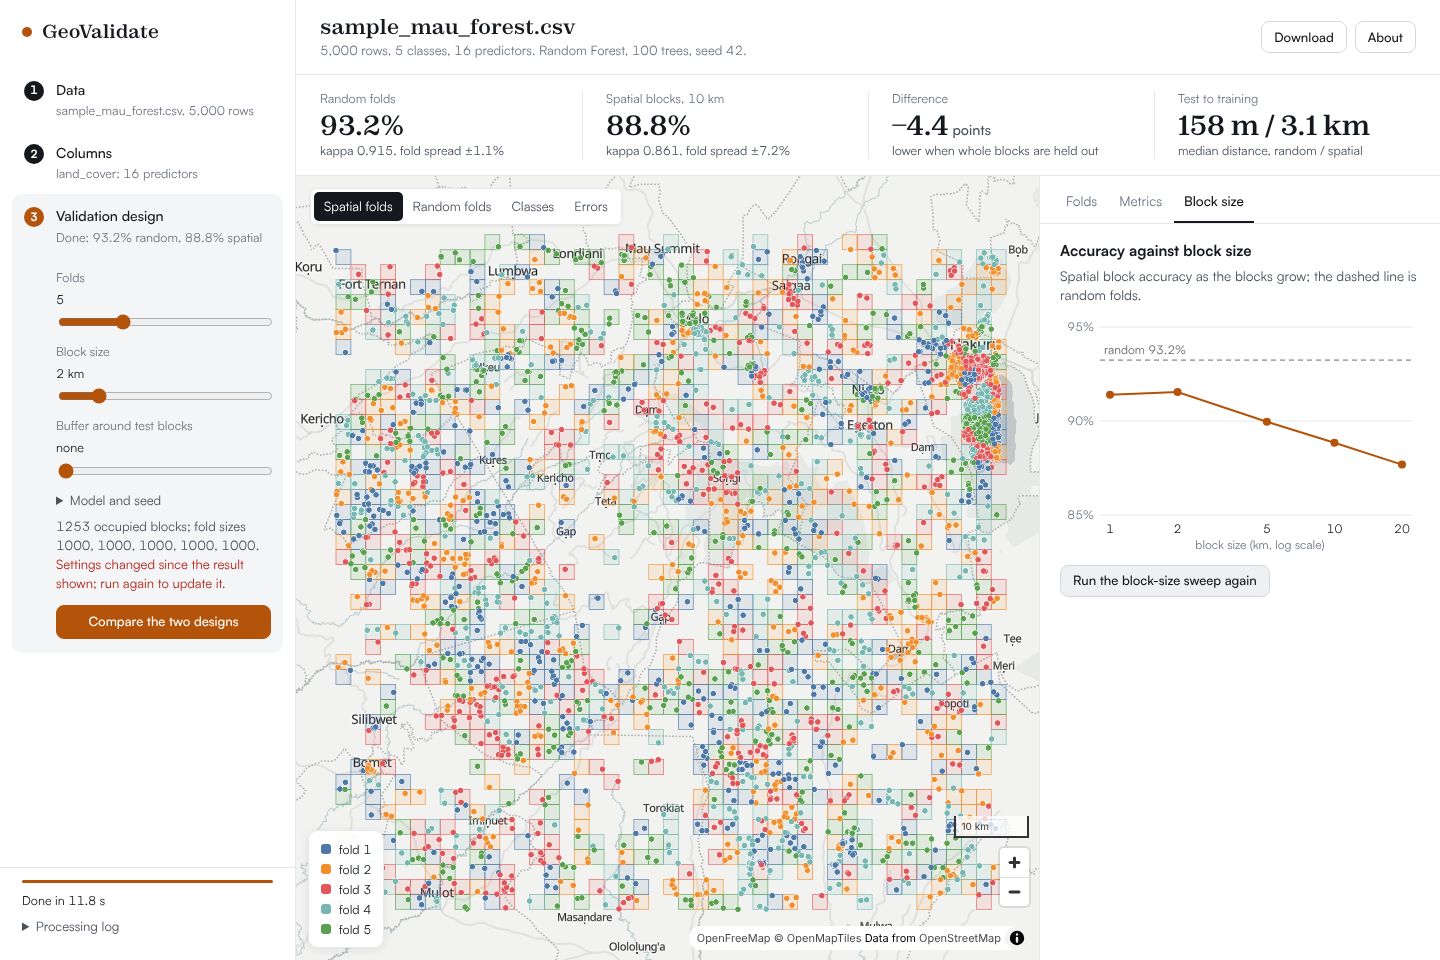
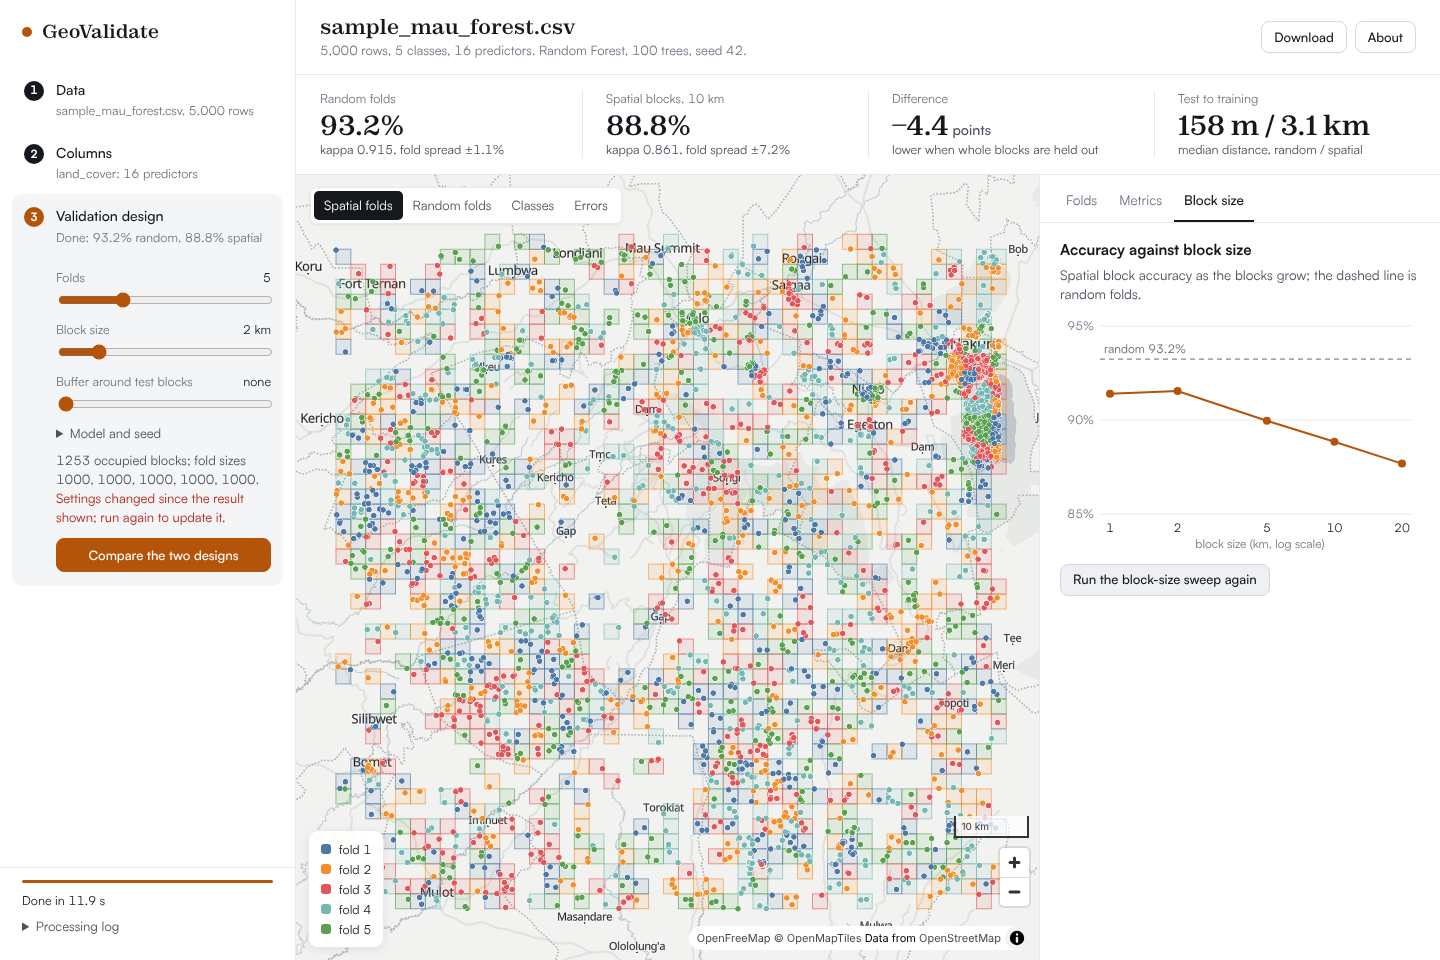
Fix review findings: block outlines across the 180 degree meridian, staleness on every setting, sweep and load state, report image wait

diff --git a/js/app.js b/js/app.js
@@ -77,7 +77,7 @@ async function load(text, name, kind) {
   try {
     const meta = await ask('load', { text, kind }, m => { info(esc(m)); line(m, 'now'); });
     log.querySelectorAll('li.now').forEach(l => l.classList.remove('now'));
-    Object.assign(S, { text, name, kind, meta, result: null, preview: null, view: 'folds' }); resetResult();
+    Object.assign(S, { text, name, kind, meta, result: null, preview: null, previewOk: false, sweep: null, stale: false, view: 'folds' }); resetResult();
     document.querySelector('[data-view="errors"]').disabled = true;
     document.querySelectorAll('[data-view]').forEach(x => { x.checked = x.dataset.view === 'folds'; });
     $('views').hidden = false; summary(0, `${name}, ${meta.rows.toLocaleString('en-GB')} rows`);
@@ -121,7 +121,7 @@ async function checkData() {
     $('quality').innerHTML = `<li>${q.rows.toLocaleString('en-GB')} rows; classes: ${cls}</li>` +
       (q.problems.length ? q.problems.map(p => `<li class="warn">${esc(p)}</li>`).join('') : '<li class="ok">No problems found in rows, coordinates or target.</li>');
     await preview();
-  } catch (e) { $('quality').innerHTML = `<li class="warn">${esc(e.message)}</li>`; $('run').disabled = true; }
+  } catch (e) { $('quality').innerHTML = `<li class="warn">${esc(e.message)}</li>`; S.previewOk = false; $('run').disabled = true; updateNext(); }
 }
 
 // ---------------------------------------------------------------- design controls and live fold preview
@@ -131,6 +131,7 @@ const outs = () => {
 };
 $('block').max = BLOCKS.length - 1; $('block').value = BLOCKS.indexOf(10); outs();
 let pvTimer = null;
+['trees', 'leaf', 'cw', 'holdout'].forEach(id => $(id).addEventListener('change', () => { clearTimeout(pvTimer); pvTimer = setTimeout(preview, 150); }));
 ['k', 'block', 'buffer', 'seed'].forEach(id => $(id).addEventListener('input', () => { outs(); clearTimeout(pvTimer); pvTimer = setTimeout(preview, 150); }));
 async function preview() {
   if (!S.meta) return;
@@ -141,7 +142,8 @@ async function preview() {
     S.preview = p; S.previewOk = true; $('run').disabled = false; updateNext();
     summary(1, `${cfg().target}; ${cfg().features.length} predictors`);
     // a result computed with other settings is kept, but marked as out of date, and the map shows the new folds
-    S.stale = !!S.result && JSON.stringify(['k', 'seed', 'block_km', 'buffer_km'].map(k => S.result.config[k])) !== JSON.stringify(['k', 'seed', 'block_km', 'buffer_km'].map(k => cfg()[k]));
+    const keyOf = c => JSON.stringify([c.target, c.x, c.y, c.crs, c.features, c.k, c.seed, c.block_km, c.buffer_km, c.method, c.model]);
+    S.stale = !!S.result && keyOf(S.result.config) !== keyOf(cfg());
     const empty = p.fold_class_counts.map((c, f) => Object.entries(c).filter(([, n]) => n === 0).map(([k]) => k)).map((e, f) => e.length ? `fold ${f + 1} lacks ${e.join(', ')}` : '').filter(Boolean);
     $('fold-info').innerHTML = `${p.n_blocks} occupied blocks; fold sizes ${p.fold_sizes.join(', ')}.` + (empty.length ? ` <span class="warn">${esc(empty.join('; '))}.</span>` : '')
       + (S.stale ? ' <span class="warn">Settings changed since the result shown; run again to update it.</span>' : '');
@@ -170,7 +172,9 @@ async function drawMap(fit) {
   map.getSource('blocks').setData(showBlocks ? { ...blocksFC, features: blocksFC.features.map(f => ({ ...f, properties: { ...f.properties, color: S.view === 'folds' ? FOLD_COLORS[f.properties.fold % 10] : '#6a6963' } })) } : { type: 'FeatureCollection', features: [] });
   const key = S.name + lonlat.length;
   if (fit && fitted !== key) {
-    const xs = lonlat.map(c => c[0]), ys = lonlat.map(c => c[1]);
+    const sn = lonlat.reduce((q, c) => q + Math.sin(c[0] * Math.PI / 180), 0), cs = lonlat.reduce((q, c) => q + Math.cos(c[0] * Math.PI / 180), 0);
+    const lon0 = Math.atan2(sn, cs) * 180 / Math.PI;   // circular mean, as the projection uses
+    const xs = lonlat.map(c => lon0 + ((c[0] - lon0 + 540) % 360) - 180), ys = lonlat.map(c => c[1]);
     map.fitBounds([[Math.min(...xs), Math.min(...ys)], [Math.max(...xs), Math.max(...ys)]], { padding: { top: 60, bottom: 40, left: 40, right: 40 }, duration: 700 }); fitted = key;
   }
   const L = $('legend'); L.hidden = false;
@@ -185,7 +189,7 @@ async function drawMap(fit) {
 // ---------------------------------------------------------------- run
 $('run').addEventListener('click', runNow);
 async function runNow() {
-  $('run').disabled = true; log.innerHTML = ''; line('Starting', 'now'); resetResult(); summary(2, 'Running');
+  $('run').disabled = true; log.innerHTML = ''; line('Starting', 'now'); S.result = null; S.sweep = null; resetResult(); summary(2, 'Running'); document.querySelector('[data-view="errors"]').disabled = true; drawMap(false);
   const t0 = performance.now();
   try {
     const r = await ask('run', { cfg: cfg() }, m => line(m, 'now'));
@@ -194,9 +198,9 @@ async function runNow() {
     S.result = r; S.stale = false; S.sweep = null; S.runAt = new Date().toISOString();
     document.querySelector('[data-view="errors"]').disabled = false;
     render(r); drawMap(true);
-    setLocks();
+    setLocks(); if (window.innerWidth <= 860) document.querySelector('.main').scrollIntoView({ behavior: 'smooth' });
   } catch (e) { line(e.message, 'err'); summary(2, 'Failed; see the message below'); }
-  finally { $('run').disabled = !S.previewOk; }
+  finally { $('run').disabled = !S.previewOk || cfg().crs === 'EPSG:'; }
 }
 
 function render(r) {
@@ -206,7 +210,7 @@ function render(r) {
   $('r-title').textContent = S.name || 'Result';
   summary(2, `Done: ${pct(a.pooled.accuracy)} random, ${pct(b.pooled.accuracy)} spatial`);
   const k = [
-    [a.design.includes('hold-out') ? 'Random hold-out' : 'Random folds', pct(a.pooled.accuracy), `kappa ${num(a.pooled.kappa, 3)}, fold spread ±${pct(a.fold_accuracy_sd)}`],
+    [a.design.includes('hold-out') ? 'Random hold-out' : 'Random folds', pct(a.pooled.accuracy), `kappa ${num(a.pooled.kappa, 3)}${a.per_fold.length > 1 ? `, fold spread ±${pct(a.fold_accuracy_sd)}` : ', single hold-out'}`],
     [`Spatial blocks, ${r.config.block_km} km`, pct(b.pooled.accuracy), `kappa ${num(b.pooled.kappa, 3)}, fold spread ±${pct(b.fold_accuracy_sd)}`],
     ['Difference', `${drop >= 0 ? '−' : '+'}${Math.abs(drop * 100).toFixed(1)}<small>points</small>`, drop >= 0 ? 'lower when whole blocks are held out' : 'higher when whole blocks are held out'],
     ['Test to training', `${km(a.median_test_to_train_m)} / ${km(b.median_test_to_train_m)}`, 'median distance, random / spatial'],
@@ -269,7 +273,7 @@ function drawFolds(r) {
 }
 function drawSweep() {
   const c = $('c-sweep'), { ctx, W, H } = fitCanvas(c, 240), pad = { l: 40, r: 8, t: 12, b: 40 };
-  if (!S.sweep) { ctx.clearRect(0, 0, W, H); ctx.fillStyle = '#6e7681'; ctx.font = '13px Satoshi, system-ui, sans-serif'; ctx.textAlign = 'center'; ctx.fillText(S.result ? 'Run the sweep to see how accuracy changes' : 'Compare the two designs first', W / 2, H / 2); return; }
+  if (!S.sweep || !S.result) { ctx.clearRect(0, 0, W, H); ctx.fillStyle = '#6e7681'; ctx.font = '13px Satoshi, system-ui, sans-serif'; ctx.textAlign = 'center'; ctx.fillText(S.result ? 'Run the sweep to see how accuracy changes' : 'Compare the two designs first', W / 2, H / 2); return; }
   const rows = S.sweep.rows.filter(r => r.accuracy != null), base = S.result.random.pooled.accuracy;
   const all = rows.map(r => r.accuracy).concat([base]);
   const lo = Math.max(0, Math.floor((Math.min(...all) - 0.02) * 20) / 20), hi = Math.min(1, Math.ceil((Math.max(...all) + 0.01) * 20) / 20);
@@ -285,11 +289,12 @@ function drawSweep() {
 $('sweep').addEventListener('click', async () => {
   if (!S.result) return;
   const sizes = [1, 2, 5, 10, 20].filter(b => b !== S.result.config.block_km).concat([S.result.config.block_km]).sort((a, b) => a - b);
+  document.querySelectorAll('.sweep-note').forEach(n => n.remove());
   $('sweep').disabled = true; $('sweep').textContent = 'Running…';
   try { S.sweep = await ask('sweep', { cfg: S.result.config, blocks: sizes }, m => { $('sweep').textContent = m; }); drawSweep();
-    const bad = S.sweep.rows.filter(r => r.error); if (bad.length) $('sweep').insertAdjacentHTML('afterend', `<p class="warn">* ${bad.map(r => esc(r.error)).join('; ')}</p>`); }
+    const bad = S.sweep.rows.filter(r => r.error); if (bad.length) $('sweep').insertAdjacentHTML('afterend', `<p class="warn sweep-note">* ${bad.map(r => esc(r.error)).join('; ')}</p>`); }
   catch (e) { alert(e.message); }
-  finally { $('sweep').disabled = false; $('sweep').textContent = 'Run the block-size sweep again'; }
+  finally { $('sweep').disabled = !S.result; $('sweep').textContent = 'Run the block-size sweep again'; }
 });
 
 // ---------------------------------------------------------------- exports
@@ -335,6 +340,7 @@ document.querySelectorAll('[data-export]').forEach(b => b.addEventListener('clic
     $('report').innerHTML = `<h1>GeoValidate report</h1><p>${esc(S.name)} · ${r.rows_used} rows · run ${esc(S.runAt)} · SHA-256 ${esc(S.meta.sha256)}</p>
       <p>${$('gap').innerHTML}</p><img src="${img}" alt="Map of spatial folds"><h2>Results</h2>${$('compare').innerHTML}
       <h2>Configuration</h2><p class="src">${esc(JSON.stringify(r.config))}</p><p class="src">scikit-learn ${esc(r.sklearn)} in Pyodide 0.26.4 · GeoValidate ${esc(r.version)}</p>`;
+    await new Promise(res => { const im = $('report').querySelector('img'); im.complete ? res() : (im.onload = res); });
     window.print();
   }
 }));
@@ -351,7 +357,10 @@ function summary(k, t) { $(`sum-${k}`).textContent = t; }
 const reach = k => k === 0 || (k === 1 && !!S.meta) || (k === 2 && !!S.meta && !!S.previewOk);
 const complete = k => k === 0 ? !!S.meta : k === 1 ? !!S.previewOk : !!S.result;
 function setLocks() {
-  document.querySelectorAll('.step').forEach(el => { const k = +el.dataset.step; el.classList.toggle('locked', !reach(k)); el.classList.toggle('done', k !== step && complete(k)); });
+  document.querySelectorAll('.step').forEach(el => {
+    const k = +el.dataset.step, h = el.querySelector('.step-h');
+    el.classList.toggle('locked', !reach(k)); el.classList.toggle('done', k !== step && complete(k)); h.setAttribute('aria-disabled', String(!reach(k))); h.tabIndex = reach(k) ? 0 : -1;
+  });
 }
 function updateNext() { $('next-0').disabled = !S.meta; $('next-1').disabled = !S.previewOk; setLocks(); }
 function go(n) {
@@ -375,12 +384,21 @@ document.querySelectorAll('.step-h').forEach(h => h.addEventListener('click', ()
 $('next-0').addEventListener('click', () => go(1));
 $('next-1').addEventListener('click', () => go(2));
 function showTab(t) {
-  document.querySelectorAll('.tabs button').forEach(x => x.setAttribute('aria-selected', String(x.dataset.tab === t)));
+  document.querySelectorAll('.tabs button').forEach(x => { x.setAttribute('aria-selected', String(x.dataset.tab === t)); x.tabIndex = x.dataset.tab === t ? 0 : -1; });
   document.querySelectorAll('[data-tabpane]').forEach(p => { p.hidden = p.dataset.tabpane !== t; });
   if (S.result && t === 'folds') drawFolds(S.result);
   if (t === 'sweep') drawSweep();
 }
-document.querySelectorAll('.tabs button').forEach(b => b.addEventListener('click', () => showTab(b.dataset.tab)));
+const tabBtns = [...document.querySelectorAll('.tabs button')];
+tabBtns.forEach(b => {
+  const pane = document.querySelector(`[data-tabpane="${b.dataset.tab}"]`);
+  b.id = `tab-${b.dataset.tab}`; pane.id = `pane-${b.dataset.tab}`; pane.setAttribute('role', 'tabpanel'); pane.setAttribute('aria-labelledby', b.id); b.setAttribute('aria-controls', pane.id);
+  b.addEventListener('click', () => showTab(b.dataset.tab));
+  b.addEventListener('keydown', e => {
+    const i = tabBtns.indexOf(b), j = e.key === 'ArrowRight' ? (i + 1) % tabBtns.length : e.key === 'ArrowLeft' ? (i - 1 + tabBtns.length) % tabBtns.length : -1;
+    if (j < 0) return; e.preventDefault(); tabBtns[j].focus(); showTab(tabBtns[j].dataset.tab);
+  });
+});
 window.addEventListener('resize', () => { if (S.result) { drawFolds(S.result); drawSweep(); } });
 $('dl-menu').addEventListener('toggle', () => { if ($('dl-menu').open && !S.result) { $('dl-menu').open = false; $('r-sub').textContent = 'Compare the two designs first; downloads are made from the result.'; } });
 document.querySelectorAll('[data-export]').forEach(b => b.addEventListener('click', () => { $('dl-menu').open = false; }));

diff --git a/css/dash.css b/css/dash.css
@@ -47,9 +47,9 @@ button, input, select { font: inherit; color: inherit; }
 .step.locked .step-h { cursor: default; }
 .step.locked .t, .step.locked .s { color: #a3aab2; }
 .step-b { padding: 0 12px 14px 44px; }
-label.f { display: grid; gap: 4px; font-size: 12.5px; color: var(--ink-3); margin: 10px 0; }
+label.f { display: grid; gap: 4px; font-size: 12.5px; color: var(--ink-3); margin: 10px 0; min-width: 0; }
 label.f output { color: var(--ink); }
-.in { width: 100%; height: 34px; border: 1px solid var(--line); background: var(--sheet); color: var(--ink); border-radius: var(--r); padding: 0 10px; font-size: 13.5px; }
+.in { width: 100%; min-width: 0; height: 34px; border: 1px solid var(--line); background: var(--sheet); color: var(--ink); border-radius: var(--r); padding: 0 10px; font-size: 13.5px; }
 .in:focus { outline: none; border-color: var(--accent); box-shadow: 0 0 0 3px var(--accent-soft); }
 .in::placeholder { color: #9aa1a9; }
 .row { display: flex; gap: 6px; align-items: center; }
@@ -64,6 +64,7 @@ label.f output { color: var(--ink); }
 .list { list-style: none; margin: 8px 0 0; padding: 4px; max-height: 210px; overflow: auto; border: 1px solid var(--rule); border-radius: var(--r); background: var(--sheet); }
 .list button { all: unset; display: block; width: 100%; box-sizing: border-box; padding: 7px 8px; font-size: 13px; cursor: pointer; border-radius: 6px; }
 .list button:hover, .list button:focus-visible { background: var(--hover); }
+.list button:focus-visible, .menu-list button:focus-visible { outline: 2px solid var(--accent); outline-offset: -2px; }
 .list li.small { padding: 7px 8px; }
 .chosen { margin-top: 10px; padding: 9px 11px; border-radius: var(--r); background: var(--sheet); border: 1px solid var(--rule); font-size: 13px; display: grid; gap: 2px; }
 .rail details { margin: 8px 0; font-size: 13px; }
@@ -107,7 +108,7 @@ input[type=range] { width: 100%; accent-color: var(--accent); }
 .kpi .l { font-size: 12.5px; color: var(--ink-3); white-space: nowrap; overflow: hidden; text-overflow: ellipsis; }
 .kpi .v { font-family: var(--display); font-size: 28px; font-weight: 700; line-height: 1.15; margin-top: 2px; white-space: nowrap; }
 .kpi .v small { font-family: var(--text); font-size: 14px; font-weight: 500; color: var(--ink-2); margin-left: 4px; }
-.kpi .d { font-size: 12.5px; color: var(--ink-2); white-space: nowrap; overflow: hidden; text-overflow: ellipsis; }
+.kpi .d { font-size: 12.5px; color: var(--ink-2); line-height: 1.35; display: -webkit-box; -webkit-line-clamp: 2; -webkit-box-orient: vertical; overflow: hidden; }
 .kpis.empty .v { color: var(--line); }
 
 .body { display: grid; grid-template-columns: minmax(0, 1fr) var(--panel-w); min-height: 0; }
@@ -150,7 +151,7 @@ input[type=range] { width: 100%; accent-color: var(--accent); }
 .tabpane p { margin: 0 0 10px; color: var(--ink-2); font-size: 13.5px; }
 .tabpane .note { font-size: 12.5px; color: var(--ink-3); }
 .empty-state { padding: 28px 4px; color: var(--ink-3); font-size: 13.5px; }
-canvas.chart { width: 100%; height: auto; display: block; touch-action: none; }
+canvas.chart { width: 100%; height: auto; display: block; }
 table.t { width: 100%; border-collapse: collapse; font-size: 13px; }
 table.t th, table.t td { text-align: left; padding: 6px 6px; border-bottom: 1px solid var(--rule); vertical-align: top; }
 table.t th { font-weight: 500; color: var(--ink-3); }
@@ -185,6 +186,9 @@ table.t td.n, table.t th.n { text-align: right; }
   .kpis { grid-template-columns: 1fr 1fr; }
   .kpi { padding: 12px 16px; border-bottom: 1px solid var(--rule); }
   .kpi:nth-child(2n) { border-right: 0; }
+  .kpi:nth-child(odd)::before { display: none; }
+  .menu-list { right: auto; left: 0; max-width: calc(100vw - 32px); }
+  .kpi .d { -webkit-line-clamp: 3; }
   .body { display: block; }
   .mapwrap { height: 62vh; border-right: 0; border-bottom: 1px solid var(--rule); }
   .tabpane { max-height: none; }

diff --git a/index.html b/index.html
@@ -133,7 +133,7 @@
           <h2>Accuracy against block size</h2>
           <p>Spatial block accuracy as the blocks grow; the dashed line is random folds.</p>
           <canvas class="chart" id="c-sweep" width="720" height="240" role="img" aria-label="Spatial accuracy against block size"></canvas>
-          <button class="hb" id="sweep" type="button" style="margin-top:10px" disabled>Run the block-size sweep (5 sizes)</button>
+          <button class="hb" id="sweep" type="button" style="margin-top:10px" disabled>Run the block-size sweep</button>
         </div>
       </section>
     </div>

diff --git a/py/geovalidate.py b/py/geovalidate.py
@@ -8,6 +8,7 @@ from __future__ import annotations
 import hashlib
 import io
 import json
+import re
 import math
 from dataclasses import dataclass, field, asdict
 
@@ -152,7 +153,7 @@ def inspect(df: pd.DataFrame, target: str, x: str, y: str, features: list[str], 
             spread = max_spread_km(xs[ok].to_numpy(float), ys[ok].to_numpy(float))
             if spread > 3000:
                 problems.append(f"points lie up to {spread:,.0f} km from their centre; the equidistant projection stretches blocks far "
-                                f"from the centre (about {100 * aeqd_stretch(spread):.0f}% at that distance), so block sizes are approximate there")
+                                f"from the centre ({f"about {100 * aeqd_stretch(spread):.0f}%" if spread < 10000 else "without a useful bound"} at that distance), so block sizes are approximate there")
     return {"rows": n, "missing_coordinates": missing_xy, "invalid_coordinates": bad_xy, "missing_target": missing_target,
             "duplicate_rows": dup_rows, "duplicate_locations": dup_xy, "classes": {str(k): int(v) for k, v in classes.items()},
             "imbalance_ratio": imbalance, "features": feats, "problems": problems}
@@ -222,12 +223,20 @@ def lonlat_of(df, keep, x, y, crs):
     return np.column_stack([lon, lat])
 
 
+def unwrap(lon, lon0):
+    """Longitude shifted by whole turns to lie within 180 degrees of lon0, so a block across the 180 degree meridian keeps
+    continuous corners (e.g. 179.9 and 180.1) instead of spanning the globe. Values may therefore exceed 180."""
+    return float(lon0 + ((lon - lon0 + 180.0) % 360.0) - 180.0)
+
+
 def block_polygons(prep: Prepared, block_m: float, ix, iy, blocks, folds) -> dict:
     """GeoJSON of the occupied blocks with their fold, corners transformed back to longitude/latitude for the map."""
     from pyproj import Transformer
     x0, y0 = prep.xy[:, 0].min(), prep.xy[:, 1].min()
     src = prep.projection.split(" (")[0]
     inv = Transformer.from_crs(src, "EPSG:4326", always_xy=True)
+    m = re.search(r"\+lon_0=(-?[\d.]+)", src)
+    lon0 = float(m.group(1)) if m else 0.0   # projected input: no wrapping needed in practice
     feats = []
     seen = {}
     for b, i, j, f in zip(blocks, ix, iy, folds):
@@ -236,6 +245,7 @@ def block_polygons(prep: Prepared, block_m: float, ix, iy, blocks, folds) -> dic
         xs = [x0 + i * block_m, x0 + (i + 1) * block_m]; ys = [y0 + j * block_m, y0 + (j + 1) * block_m]
         ring = [(xs[0], ys[0]), (xs[1], ys[0]), (xs[1], ys[1]), (xs[0], ys[1]), (xs[0], ys[0])]
         lon, lat = inv.transform([p[0] for p in ring], [p[1] for p in ring])
+        lon = [unwrap(a, lon0) for a in lon]
         feats.append({"type": "Feature", "properties": {"block": int(b), "fold": int(f)},
                       "geometry": {"type": "Polygon", "coordinates": [[[round(a, 6), round(c, 6)] for a, c in zip(lon, lat)]]}})
     return {"type": "FeatureCollection", "features": feats}
@@ -263,7 +273,7 @@ def max_spread_km(lon, lat):
 
 def aeqd_stretch(d_km):
     """Scale error across the radial direction of an azimuthal equidistant projection at distance d: theta / sin(theta) - 1."""
-    t = d_km / 6371.0
+    t = min(d_km / 6371.0, 3.0)   # near the antipode the stretch has no useful bound; 3 rad (19,000 km) is used as a cap
     return float(t / np.sin(t) - 1)
 
 

diff --git a/tests/regression_test.py b/tests/regression_test.py
@@ -41,4 +41,11 @@ check("points across the 180 degree meridian project close together", np.ptp(xy[
 wide = df.assign(lon=np.linspace(-60, 60, len(df)))
 check("data spread over continents get a block-size warning", any("stretches blocks" in p for p in gv.inspect(wide, "y", "lon", "lat", ["a"], "EPSG:4326")["problems"]))
 check("compact data get no such warning", not any("stretches blocks" in p for p in gv.inspect(df, "y", "lon", "lat", ["a"], "EPSG:4326")["problems"]))
+# block outlines across the 180 degree meridian keep continuous corners
+rng = np.random.default_rng(1)
+lon = np.concatenate([rng.uniform(179.0, 180, 100), rng.uniform(-180, -179.0, 100)])
+fj = pd.DataFrame({"lon": ((lon + 180) % 360) - 180, "lat": rng.uniform(-18, -17, 200), "a": rng.normal(size=200), "y": rng.choice(["u", "v"], 200)})
+pv = gv.fold_preview(fj, {"target": "y", "x": "lon", "y": "lat", "features": ["a"], "crs": "EPSG:4326", "k": 5, "seed": 42, "block_km": 10})
+span = max(max(c[0] for c in f["geometry"]["coordinates"][0]) - min(c[0] for c in f["geometry"]["coordinates"][0]) for f in pv["blocks"]["features"])
+check("block outlines across the 180 degree meridian stay compact", span < 1, f"widest block spans {span:.3f} degrees of longitude")
 print(f"{fails} FAILED" if fails else "ALL PASSED"); sys.exit(1 if fails else 0)
